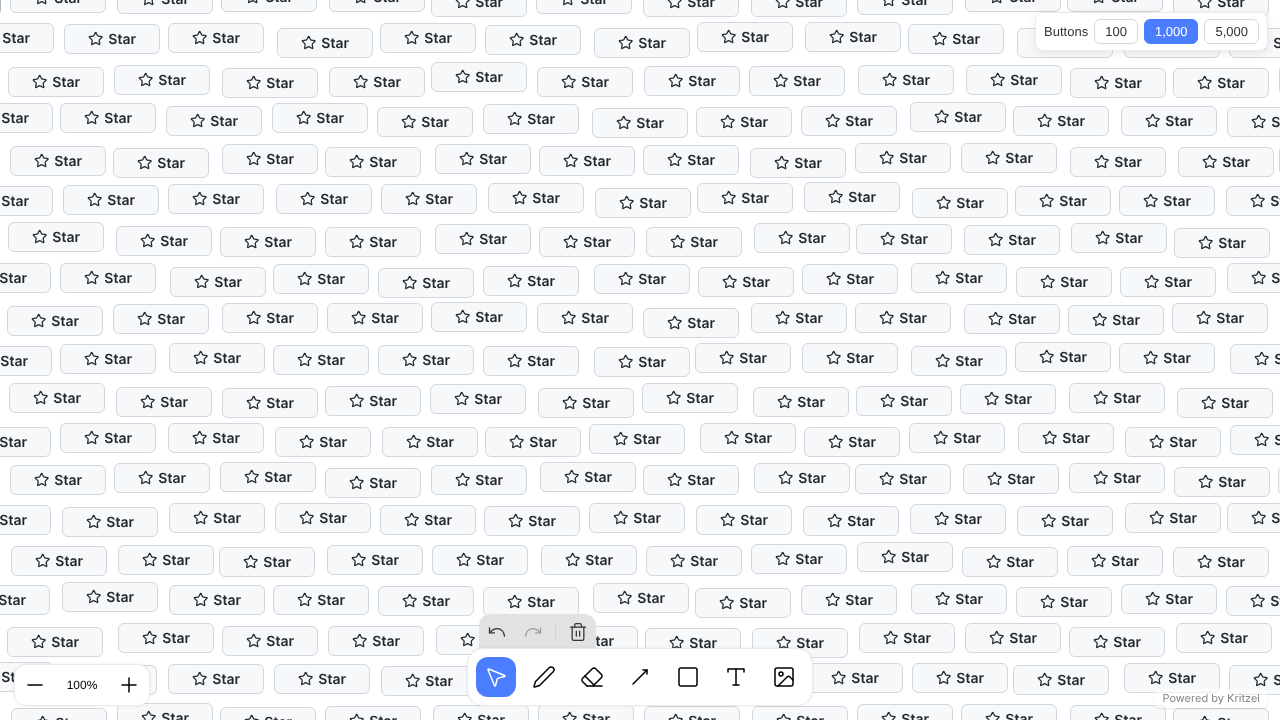
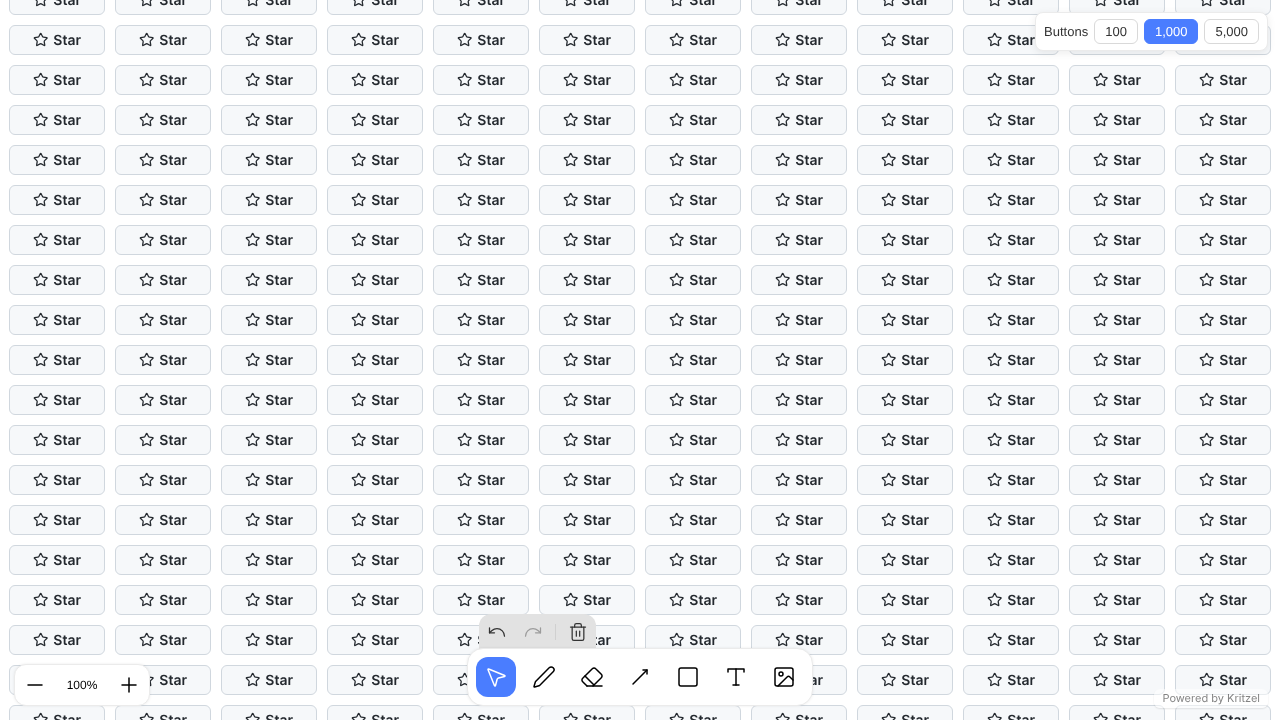
Place GitHub Stars buttons on an evenly spaced grid
Replace the jittered brick layout with a regular grid centered on the
world origin: every button is 10px from its neighbors horizontally and
vertically, and a partial last row is centered. The layout now depends
only on the count, so the seeded generator is no longer needed. Docs and
the visual baselines are updated to match.

Claude-Session: https://claude.ai/code/session_01XRZVhGNDwXjtNMsqZnr7de

diff --git a/apps/demos/angular/src/app/pages/examples/github-star-button.ts b/apps/demos/angular/src/app/pages/examples/github-star-button.ts
@@ -8,12 +8,11 @@ export const DEFAULT_STAR_COUNT = 1000;
 
 const STAR_WIDTH = 96;
 const STAR_HEIGHT = 30;
-// Buttons sit on a brick grid with small gaps, filled outward from the center of the initial viewport.
-const CELL_WIDTH = STAR_WIDTH + 10;
-const CELL_HEIGHT = STAR_HEIGHT + 10;
+// Every button is separated from its neighbors by the same gap, horizontally and vertically.
+const STAR_GAP = 10;
+const CELL_WIDTH = STAR_WIDTH + STAR_GAP;
+const CELL_HEIGHT = STAR_HEIGHT + STAR_GAP;
 const BOARD_ASPECT = 16 / 9;
-const MAX_JITTER = 3;
-const LAYOUT_SEED = 20240611;
 // Screen pixels the pointer may travel between down and up and still count as a click.
 const CLICK_TOLERANCE = 4;
 
@@ -32,15 +31,6 @@ export type GithubStarButtonInstance = {
 export function normalizeGithubStarButtonData(data: unknown): GithubStarButtonData {
   const label = data && typeof data === 'object' ? (data as Partial<GithubStarButtonData>).label : undefined;
   return { label: typeof label === 'string' && label.length > 0 ? label : 'Star' };
-}
-
-// Small LCG so every load (and every framework) produces the same layout.
-export function createSeededRandom(seed: number): () => number {
-  let state = seed >>> 0;
-  return () => {
-    state = (Math.imul(state, 1664525) + 1013904223) >>> 0;
-    return state / 4294967296;
-  };
 }
 
 const SVG_NS = 'http://www.w3.org/2000/svg';
@@ -151,32 +141,19 @@ export function createGithubStarObject(x: number, y: number): KritzelDynamicObje
 }
 
 /**
- * Packs `count` buttons as densely as the grid allows around the world origin (the center of
- * the initial viewport), so the first screen looks equally crowded for every count; larger
- * counts only grow the board outward. The seeded generator keeps the layout identical on
- * every load and in every framework.
+ * Lays `count` buttons out on a regular grid centered on the world origin (the center of the
+ * initial viewport), so the first screen looks equally full for every count and larger counts
+ * only grow the board outward. The board keeps a 16:9 shape; a partial last row is centered.
  */
 export function createGithubStarObjects(count: number): KritzelDynamicObject[] {
-  const random = createSeededRandom(LAYOUT_SEED);
-  const boardWidth = Math.sqrt(count * CELL_WIDTH * CELL_HEIGHT * BOARD_ASPECT);
-  const halfColumns = Math.ceil(boardWidth / 2 / CELL_WIDTH) + 2;
-  const halfRows = Math.ceil(boardWidth / BOARD_ASPECT / 2 / CELL_HEIGHT) + 2;
+  const columns = Math.max(1, Math.round(Math.sqrt((count * BOARD_ASPECT * CELL_HEIGHT) / CELL_WIDTH)));
+  const rows = Math.ceil(count / columns);
+  const top = -(rows * CELL_HEIGHT - STAR_GAP) / 2;
 
-  const cells: Array<{ x: number; y: number; distance: number }> = [];
-  for (let row = -halfRows; row <= halfRows; row++) {
-    for (let column = -halfColumns; column <= halfColumns; column++) {
-      const x = column * CELL_WIDTH + (row % 2 === 0 ? 0 : CELL_WIDTH / 2);
-      const y = row * CELL_HEIGHT;
-      // Rectangular rings in the board's aspect ratio; the random term roughens the board's edge.
-      const distance = Math.max(Math.abs(x), Math.abs(y) * BOARD_ASPECT) + random() * CELL_WIDTH;
-      cells.push({ x, y, distance });
-    }
-  }
-  cells.sort((first, second) => first.distance - second.distance);
-
-  return cells.slice(0, count).map(({ x, y }) => {
-    const jitterX = Math.round((random() * 2 - 1) * MAX_JITTER);
-    const jitterY = Math.round((random() * 2 - 1) * MAX_JITTER);
-    return createGithubStarObject(x - STAR_WIDTH / 2 + jitterX, y - STAR_HEIGHT / 2 + jitterY);
+  return Array.from({ length: count }, (_, index) => {
+    const row = Math.floor(index / columns);
+    const columnsInRow = Math.min(columns, count - row * columns);
+    const left = -(columnsInRow * CELL_WIDTH - STAR_GAP) / 2;
+    return createGithubStarObject(left + (index % columns) * CELL_WIDTH, top + row * CELL_HEIGHT);
   });
 }

diff --git a/apps/demos/react/src/pages/examples/github-star-button.ts b/apps/demos/react/src/pages/examples/github-star-button.ts
@@ -8,12 +8,11 @@ export const DEFAULT_STAR_COUNT = 1000;
 
 const STAR_WIDTH = 96;
 const STAR_HEIGHT = 30;
-// Buttons sit on a brick grid with small gaps, filled outward from the center of the initial viewport.
-const CELL_WIDTH = STAR_WIDTH + 10;
-const CELL_HEIGHT = STAR_HEIGHT + 10;
+// Every button is separated from its neighbors by the same gap, horizontally and vertically.
+const STAR_GAP = 10;
+const CELL_WIDTH = STAR_WIDTH + STAR_GAP;
+const CELL_HEIGHT = STAR_HEIGHT + STAR_GAP;
 const BOARD_ASPECT = 16 / 9;
-const MAX_JITTER = 3;
-const LAYOUT_SEED = 20240611;
 // Screen pixels the pointer may travel between down and up and still count as a click.
 const CLICK_TOLERANCE = 4;
 
@@ -32,15 +31,6 @@ export type GithubStarButtonInstance = {
 export function normalizeGithubStarButtonData(data: unknown): GithubStarButtonData {
   const label = data && typeof data === "object" ? (data as Partial<GithubStarButtonData>).label : undefined;
   return { label: typeof label === "string" && label.length > 0 ? label : "Star" };
-}
-
-// Small LCG so every load (and every framework) produces the same layout.
-export function createSeededRandom(seed: number): () => number {
-  let state = seed >>> 0;
-  return () => {
-    state = (Math.imul(state, 1664525) + 1013904223) >>> 0;
-    return state / 4294967296;
-  };
 }
 
 const SVG_NS = "http://www.w3.org/2000/svg";
@@ -151,32 +141,19 @@ export function createGithubStarObject(x: number, y: number): KritzelDynamicObje
 }
 
 /**
- * Packs `count` buttons as densely as the grid allows around the world origin (the center of
- * the initial viewport), so the first screen looks equally crowded for every count; larger
- * counts only grow the board outward. The seeded generator keeps the layout identical on
- * every load and in every framework.
+ * Lays `count` buttons out on a regular grid centered on the world origin (the center of the
+ * initial viewport), so the first screen looks equally full for every count and larger counts
+ * only grow the board outward. The board keeps a 16:9 shape; a partial last row is centered.
  */
 export function createGithubStarObjects(count: number): KritzelDynamicObject[] {
-  const random = createSeededRandom(LAYOUT_SEED);
-  const boardWidth = Math.sqrt(count * CELL_WIDTH * CELL_HEIGHT * BOARD_ASPECT);
-  const halfColumns = Math.ceil(boardWidth / 2 / CELL_WIDTH) + 2;
-  const halfRows = Math.ceil(boardWidth / BOARD_ASPECT / 2 / CELL_HEIGHT) + 2;
+  const columns = Math.max(1, Math.round(Math.sqrt((count * BOARD_ASPECT * CELL_HEIGHT) / CELL_WIDTH)));
+  const rows = Math.ceil(count / columns);
+  const top = -(rows * CELL_HEIGHT - STAR_GAP) / 2;
 
-  const cells: Array<{ x: number; y: number; distance: number }> = [];
-  for (let row = -halfRows; row <= halfRows; row++) {
-    for (let column = -halfColumns; column <= halfColumns; column++) {
-      const x = column * CELL_WIDTH + (row % 2 === 0 ? 0 : CELL_WIDTH / 2);
-      const y = row * CELL_HEIGHT;
-      // Rectangular rings in the board's aspect ratio; the random term roughens the board's edge.
-      const distance = Math.max(Math.abs(x), Math.abs(y) * BOARD_ASPECT) + random() * CELL_WIDTH;
-      cells.push({ x, y, distance });
-    }
-  }
-  cells.sort((first, second) => first.distance - second.distance);
-
-  return cells.slice(0, count).map(({ x, y }) => {
-    const jitterX = Math.round((random() * 2 - 1) * MAX_JITTER);
-    const jitterY = Math.round((random() * 2 - 1) * MAX_JITTER);
-    return createGithubStarObject(x - STAR_WIDTH / 2 + jitterX, y - STAR_HEIGHT / 2 + jitterY);
+  return Array.from({ length: count }, (_, index) => {
+    const row = Math.floor(index / columns);
+    const columnsInRow = Math.min(columns, count - row * columns);
+    const left = -(columnsInRow * CELL_WIDTH - STAR_GAP) / 2;
+    return createGithubStarObject(left + (index % columns) * CELL_WIDTH, top + row * CELL_HEIGHT);
   });
 }

diff --git a/apps/demos/vue/src/pages/examples/github-star-button.ts b/apps/demos/vue/src/pages/examples/github-star-button.ts
@@ -8,12 +8,11 @@ export const DEFAULT_STAR_COUNT = 1000
 
 const STAR_WIDTH = 96
 const STAR_HEIGHT = 30
-// Buttons sit on a brick grid with small gaps, filled outward from the center of the initial viewport.
-const CELL_WIDTH = STAR_WIDTH + 10
-const CELL_HEIGHT = STAR_HEIGHT + 10
+// Every button is separated from its neighbors by the same gap, horizontally and vertically.
+const STAR_GAP = 10
+const CELL_WIDTH = STAR_WIDTH + STAR_GAP
+const CELL_HEIGHT = STAR_HEIGHT + STAR_GAP
 const BOARD_ASPECT = 16 / 9
-const MAX_JITTER = 3
-const LAYOUT_SEED = 20240611
 // Screen pixels the pointer may travel between down and up and still count as a click.
 const CLICK_TOLERANCE = 4
 
@@ -32,15 +31,6 @@ export type GithubStarButtonInstance = {
 export function normalizeGithubStarButtonData(data: unknown): GithubStarButtonData {
   const label = data && typeof data === 'object' ? (data as Partial<GithubStarButtonData>).label : undefined
   return { label: typeof label === 'string' && label.length > 0 ? label : 'Star' }
-}
-
-// Small LCG so every load (and every framework) produces the same layout.
-export function createSeededRandom(seed: number): () => number {
-  let state = seed >>> 0
-  return () => {
-    state = (Math.imul(state, 1664525) + 1013904223) >>> 0
-    return state / 4294967296
-  }
 }
 
 const SVG_NS = 'http://www.w3.org/2000/svg'
@@ -151,32 +141,19 @@ export function createGithubStarObject(x: number, y: number): KritzelDynamicObje
 }
 
 /**
- * Packs `count` buttons as densely as the grid allows around the world origin (the center of
- * the initial viewport), so the first screen looks equally crowded for every count; larger
- * counts only grow the board outward. The seeded generator keeps the layout identical on
- * every load and in every framework.
+ * Lays `count` buttons out on a regular grid centered on the world origin (the center of the
+ * initial viewport), so the first screen looks equally full for every count and larger counts
+ * only grow the board outward. The board keeps a 16:9 shape; a partial last row is centered.
  */
 export function createGithubStarObjects(count: number): KritzelDynamicObject[] {
-  const random = createSeededRandom(LAYOUT_SEED)
-  const boardWidth = Math.sqrt(count * CELL_WIDTH * CELL_HEIGHT * BOARD_ASPECT)
-  const halfColumns = Math.ceil(boardWidth / 2 / CELL_WIDTH) + 2
-  const halfRows = Math.ceil(boardWidth / BOARD_ASPECT / 2 / CELL_HEIGHT) + 2
+  const columns = Math.max(1, Math.round(Math.sqrt((count * BOARD_ASPECT * CELL_HEIGHT) / CELL_WIDTH)))
+  const rows = Math.ceil(count / columns)
+  const top = -(rows * CELL_HEIGHT - STAR_GAP) / 2
 
-  const cells: Array<{ x: number; y: number; distance: number }> = []
-  for (let row = -halfRows; row <= halfRows; row++) {
-    for (let column = -halfColumns; column <= halfColumns; column++) {
-      const x = column * CELL_WIDTH + (row % 2 === 0 ? 0 : CELL_WIDTH / 2)
-      const y = row * CELL_HEIGHT
-      // Rectangular rings in the board's aspect ratio; the random term roughens the board's edge.
-      const distance = Math.max(Math.abs(x), Math.abs(y) * BOARD_ASPECT) + random() * CELL_WIDTH
-      cells.push({ x, y, distance })
-    }
-  }
-  cells.sort((first, second) => first.distance - second.distance)
-
-  return cells.slice(0, count).map(({ x, y }) => {
-    const jitterX = Math.round((random() * 2 - 1) * MAX_JITTER)
-    const jitterY = Math.round((random() * 2 - 1) * MAX_JITTER)
-    return createGithubStarObject(x - STAR_WIDTH / 2 + jitterX, y - STAR_HEIGHT / 2 + jitterY)
+  return Array.from({ length: count }, (_, index) => {
+    const row = Math.floor(index / columns)
+    const columnsInRow = Math.min(columns, count - row * columns)
+    const left = -(columnsInRow * CELL_WIDTH - STAR_GAP) / 2
+    return createGithubStarObject(left + (index % columns) * CELL_WIDTH, top + row * CELL_HEIGHT)
   })
 }

diff --git a/apps/website/docs/angular/examples/github-stars.md b/apps/website/docs/angular/examples/github-stars.md
@@ -29,7 +29,7 @@ This example makes use of the following core concepts. Click on the links below 
 
 ## Infinite Board of Star Buttons
 
-The board starts with 1,000 buttons packed tightly around the center of the first screen, so the initial view is full of buttons at every count; larger counts only make the board bigger. Pan to explore it, or zoom out to see the whole crowd at once. Clicking a button selects it and opens GitHub in a new tab; a selected button can be dragged, resized or deleted like any other object. The control in the top-right corner rebuilds the board with 100, 1,000 or 5,000 buttons.
+The board starts with 1,000 buttons laid out on an evenly spaced grid around the center of the first screen, so the initial view is full of buttons at every count; larger counts only make the board bigger. Pan to explore it, or zoom out to see the whole crowd at once. Clicking a button selects it and opens GitHub in a new tab; a selected button can be dragged, resized or deleted like any other object. The control in the top-right corner rebuilds the board with 100, 1,000 or 5,000 buttons.
 
 :::info Clicks versus drags
 The button is a plain `div`, not a `<button>`, so the engine treats every press on it as a canvas interaction: selecting, moving and resizing keep working. The renderer opens the link itself, and only when the pointer moved less than a few pixels between `pointerdown` and `pointerup`, so dragging never opens GitHub.
@@ -71,7 +71,7 @@ KritzelDynamicObjectRendererRegistry.register(GITHUB_STAR_RENDERER_KEY, {
 
 ### Creating the objects
 
-The object factory fills a brick grid outward from the world origin, which is the center of the initial viewport, and uses a small seeded random generator for the uneven board edge and a few pixels of jitter, so every load shows the same layout. Each object carries only the renderer key and a label in `rendererData`.
+The object factory places the buttons on a grid with a 10px gap on every side, centered on the world origin, which is the center of the initial viewport. The layout is computed from the count alone, so every load shows the same board. Each object carries only the renderer key and a label in `rendererData`.
 
 ```typescript
 export function createGithubStarObject(x: number, y: number): KritzelDynamicObject {

diff --git a/apps/website/docs/vue/examples/github-stars.md b/apps/website/docs/vue/examples/github-stars.md
@@ -29,7 +29,7 @@ This example makes use of the following core concepts. Click on the links below 
 
 ## Infinite Board of Star Buttons
 
-The board starts with 1,000 buttons packed tightly around the center of the first screen, so the initial view is full of buttons at every count; larger counts only make the board bigger. Pan to explore it, or zoom out to see the whole crowd at once. Clicking a button selects it and opens GitHub in a new tab; a selected button can be dragged, resized or deleted like any other object. The control in the top-right corner rebuilds the board with 100, 1,000 or 5,000 buttons.
+The board starts with 1,000 buttons laid out on an evenly spaced grid around the center of the first screen, so the initial view is full of buttons at every count; larger counts only make the board bigger. Pan to explore it, or zoom out to see the whole crowd at once. Clicking a button selects it and opens GitHub in a new tab; a selected button can be dragged, resized or deleted like any other object. The control in the top-right corner rebuilds the board with 100, 1,000 or 5,000 buttons.
 
 :::info Clicks versus drags
 The button is a plain `div`, not a `<button>`, so the engine treats every press on it as a canvas interaction: selecting, moving and resizing keep working. The renderer opens the link itself, and only when the pointer moved less than a few pixels between `pointerdown` and `pointerup`, so dragging never opens GitHub.
@@ -74,7 +74,7 @@ onBeforeUnmount(() => {
 
 ### Creating the objects
 
-The object factory fills a brick grid outward from the world origin, which is the center of the initial viewport, and uses a small seeded random generator for the uneven board edge and a few pixels of jitter, so every load shows the same layout. Each object carries only the renderer key and a label in `rendererData`.
+The object factory places the buttons on a grid with a 10px gap on every side, centered on the world origin, which is the center of the initial viewport. The layout is computed from the count alone, so every load shows the same board. Each object carries only the renderer key and a label in `rendererData`.
 
 ```typescript
 export function createGithubStarObject(x: number, y: number): KritzelDynamicObject {

diff --git a/apps/website/docs/react/examples/github-stars.md b/apps/website/docs/react/examples/github-stars.md
@@ -29,7 +29,7 @@ This example makes use of the following core concepts. Click on the links below 
 
 ## Infinite Board of Star Buttons
 
-The board starts with 1,000 buttons packed tightly around the center of the first screen, so the initial view is full of buttons at every count; larger counts only make the board bigger. Pan to explore it, or zoom out to see the whole crowd at once. Clicking a button selects it and opens GitHub in a new tab; a selected button can be dragged, resized or deleted like any other object. The control in the top-right corner rebuilds the board with 100, 1,000 or 5,000 buttons.
+The board starts with 1,000 buttons laid out on an evenly spaced grid around the center of the first screen, so the initial view is full of buttons at every count; larger counts only make the board bigger. Pan to explore it, or zoom out to see the whole crowd at once. Clicking a button selects it and opens GitHub in a new tab; a selected button can be dragged, resized or deleted like any other object. The control in the top-right corner rebuilds the board with 100, 1,000 or 5,000 buttons.
 
 :::info Clicks versus drags
 The button is a plain `div`, not a `<button>`, so the engine treats every press on it as a canvas interaction: selecting, moving and resizing keep working. The renderer opens the link itself, and only when the pointer moved less than a few pixels between `pointerdown` and `pointerup`, so dragging never opens GitHub.
@@ -78,7 +78,7 @@ useEffect(() => {
 
 ### Creating the objects
 
-The object factory fills a brick grid outward from the world origin, which is the center of the initial viewport, and uses a small seeded random generator for the uneven board edge and a few pixels of jitter, so every load shows the same layout. Each object carries only the renderer key and a label in `rendererData`.
+The object factory places the buttons on a grid with a 10px gap on every side, centered on the world origin, which is the center of the initial viewport. The layout is computed from the count alone, so every load shows the same board. Each object carries only the renderer key and a label in `rendererData`.
 
 ```tsx
 export function createGithubStarObject(x: number, y: number): KritzelDynamicObject {
